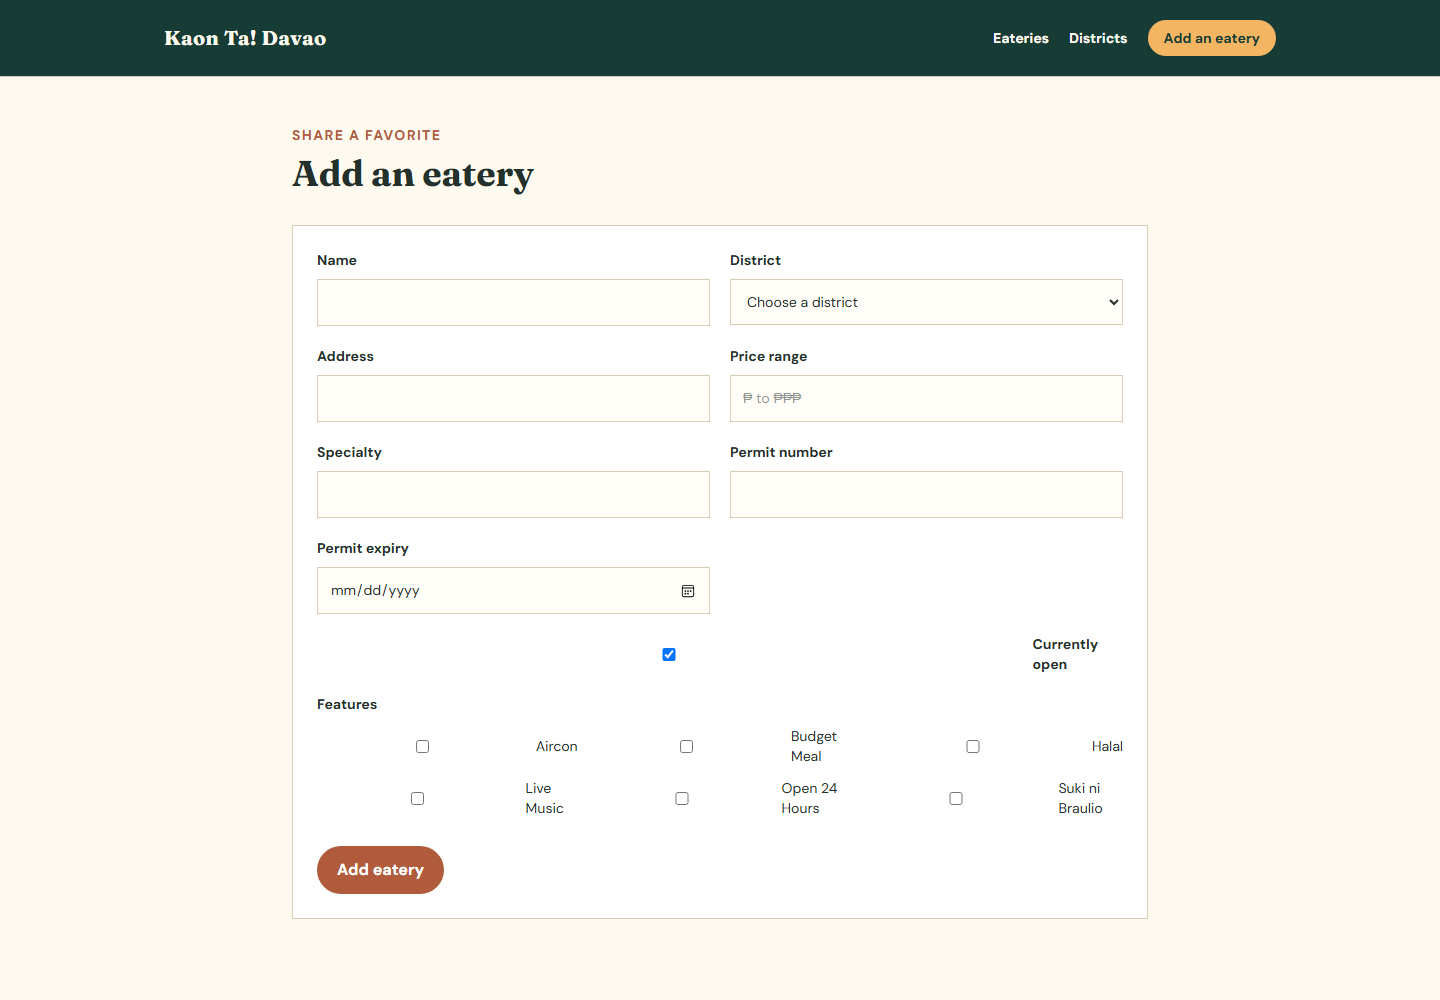
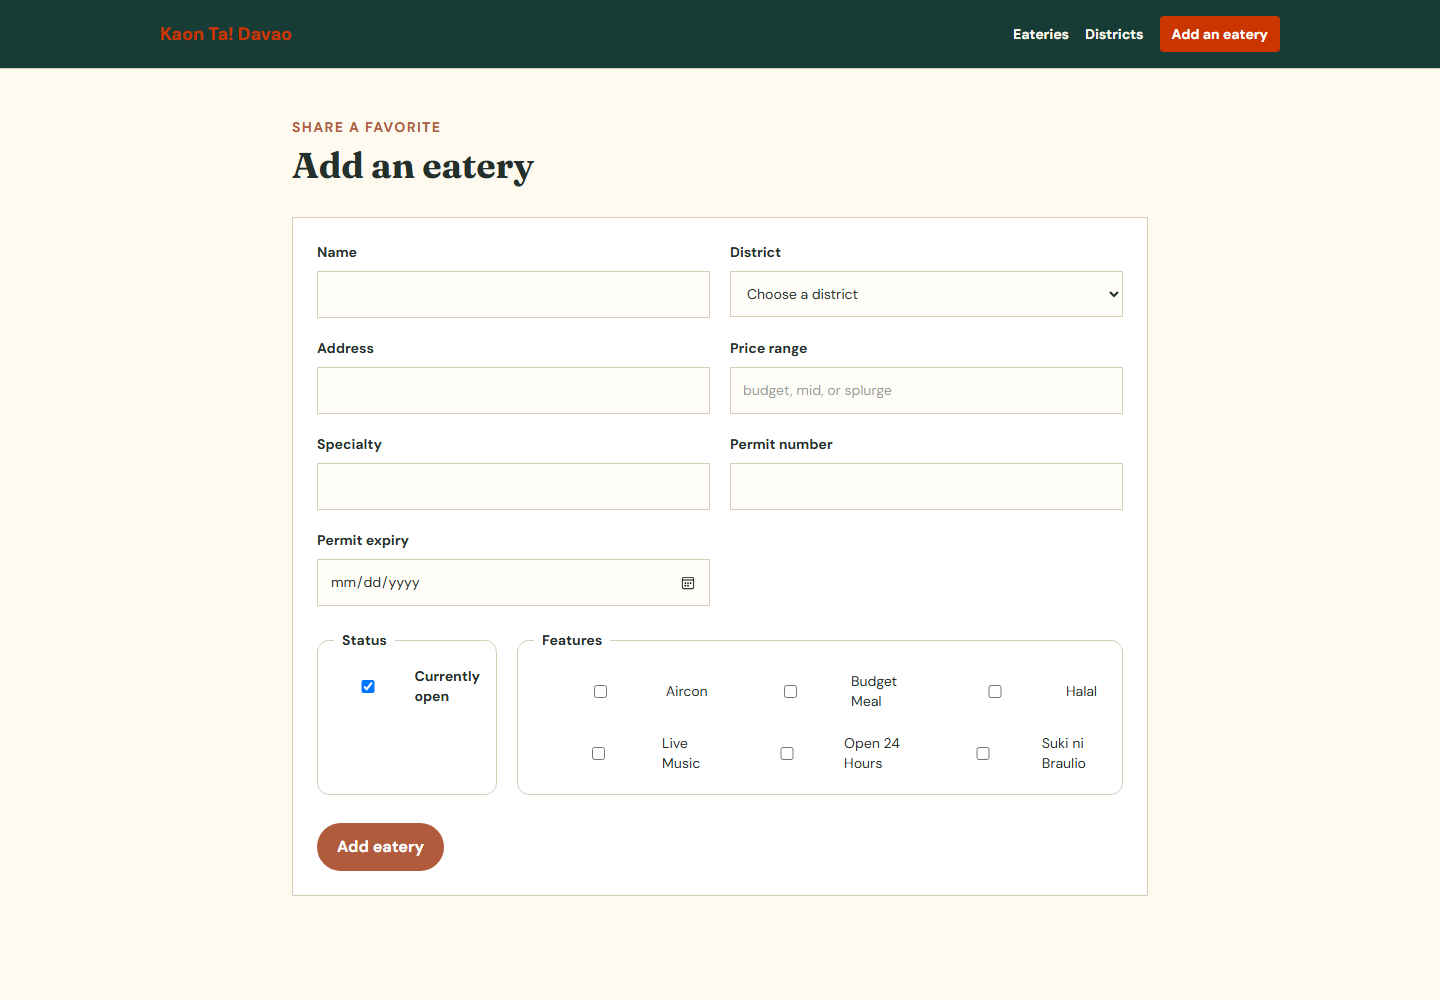
Improve create form spacing and refresh screenshot

diff --git a/resources/views/eateries/_form.blade.php b/resources/views/eateries/_form.blade.php
@@ -3,11 +3,32 @@
     <label class="field">Name<input name="name" value="{{ old('name', $eatery->name ?? '') }}" required></label>
     <label class="field">District<select name="district_id" required><option value="">Choose a district</option>@foreach ($districts as $district)<option value="{{ $district->id }}" @selected(old('district_id', $eatery->district_id ?? '') == $district->id)>{{ $district->name }}</option>@endforeach</select></label>
     <label class="field">Address<input name="address" value="{{ old('address', $eatery->address ?? '') }}" required></label>
-    <label class="field">Price range<input name="price_range" value="{{ old('price_range', $eatery->price_range ?? '') }}" placeholder="₱ to ₱₱₱" required></label>
+    <label class="field">Price range<input name="price_range" value="{{ old('price_range', $eatery->price_range ?? '') }}" placeholder="budget, mid, or splurge" required></label>
     <label class="field">Specialty<input name="specialty" value="{{ old('specialty', $eatery->specialty ?? '') }}"></label>
     <label class="field">Permit number<input name="permit_no" value="{{ old('permit_no', $eatery->permit->permit_no ?? '') }}" required></label>
     <label class="field">Permit expiry<input type="date" name="expires_on" value="{{ old('expires_on', optional($eatery->permit ?? null)->expires_on?->format('Y-m-d')) }}" required></label>
 </div>
-<label class="mt-5 flex items-center gap-3 text-sm font-semibold"><input type="checkbox" name="is_open" value="1" @checked(old('is_open', $eatery->is_open ?? true))> Currently open</label>
-<fieldset class="mt-5"><legend class="mb-3 text-sm font-bold">Features</legend><div class="grid gap-3 sm:grid-cols-2 md:grid-cols-3">@foreach ($features as $feature)<label class="flex items-center gap-2 text-sm"><input type="checkbox" name="features[]" value="{{ $feature->id }}" @checked(in_array($feature->id, old('features', isset($eatery) ? $eatery->features->pluck('id')->all() : [])))>{{ $feature->name }}</label>@endforeach</div></fieldset>
+
+<div class="mt-6 grid gap-5 md:grid-cols-[180px_minmax(0,1fr)]">
+    <fieldset class="rounded-xl border border-[#d9cdb8] bg-white/70 p-4">
+        <legend class="px-2 text-sm font-bold">Status</legend>
+        <label class="flex items-center gap-3 text-sm font-semibold">
+            <input type="checkbox" name="is_open" value="1" @checked(old('is_open', $eatery->is_open ?? true))>
+            <span>Currently open</span>
+        </label>
+    </fieldset>
+
+    <fieldset class="rounded-xl border border-[#d9cdb8] bg-white/70 p-4">
+        <legend class="px-2 text-sm font-bold">Features</legend>
+        <div class="grid gap-3 sm:grid-cols-2 lg:grid-cols-3">
+            @foreach ($features as $feature)
+                <label class="flex items-center gap-2 rounded-lg border border-transparent px-2 py-1 text-sm hover:border-[#d9cdb8] hover:bg-white">
+                    <input type="checkbox" name="features[]" value="{{ $feature->id }}" @checked(in_array($feature->id, old('features', isset($eatery) ? $eatery->features->pluck('id')->all() : [])))>
+                    <span>{{ $feature->name }}</span>
+                </label>
+            @endforeach
+        </div>
+    </fieldset>
+</div>
+
 <button class="mt-7 rounded-full bg-[#b05b3b] px-5 py-3 font-bold text-white hover:bg-[#8d422d]">{{ $buttonText }}</button>
